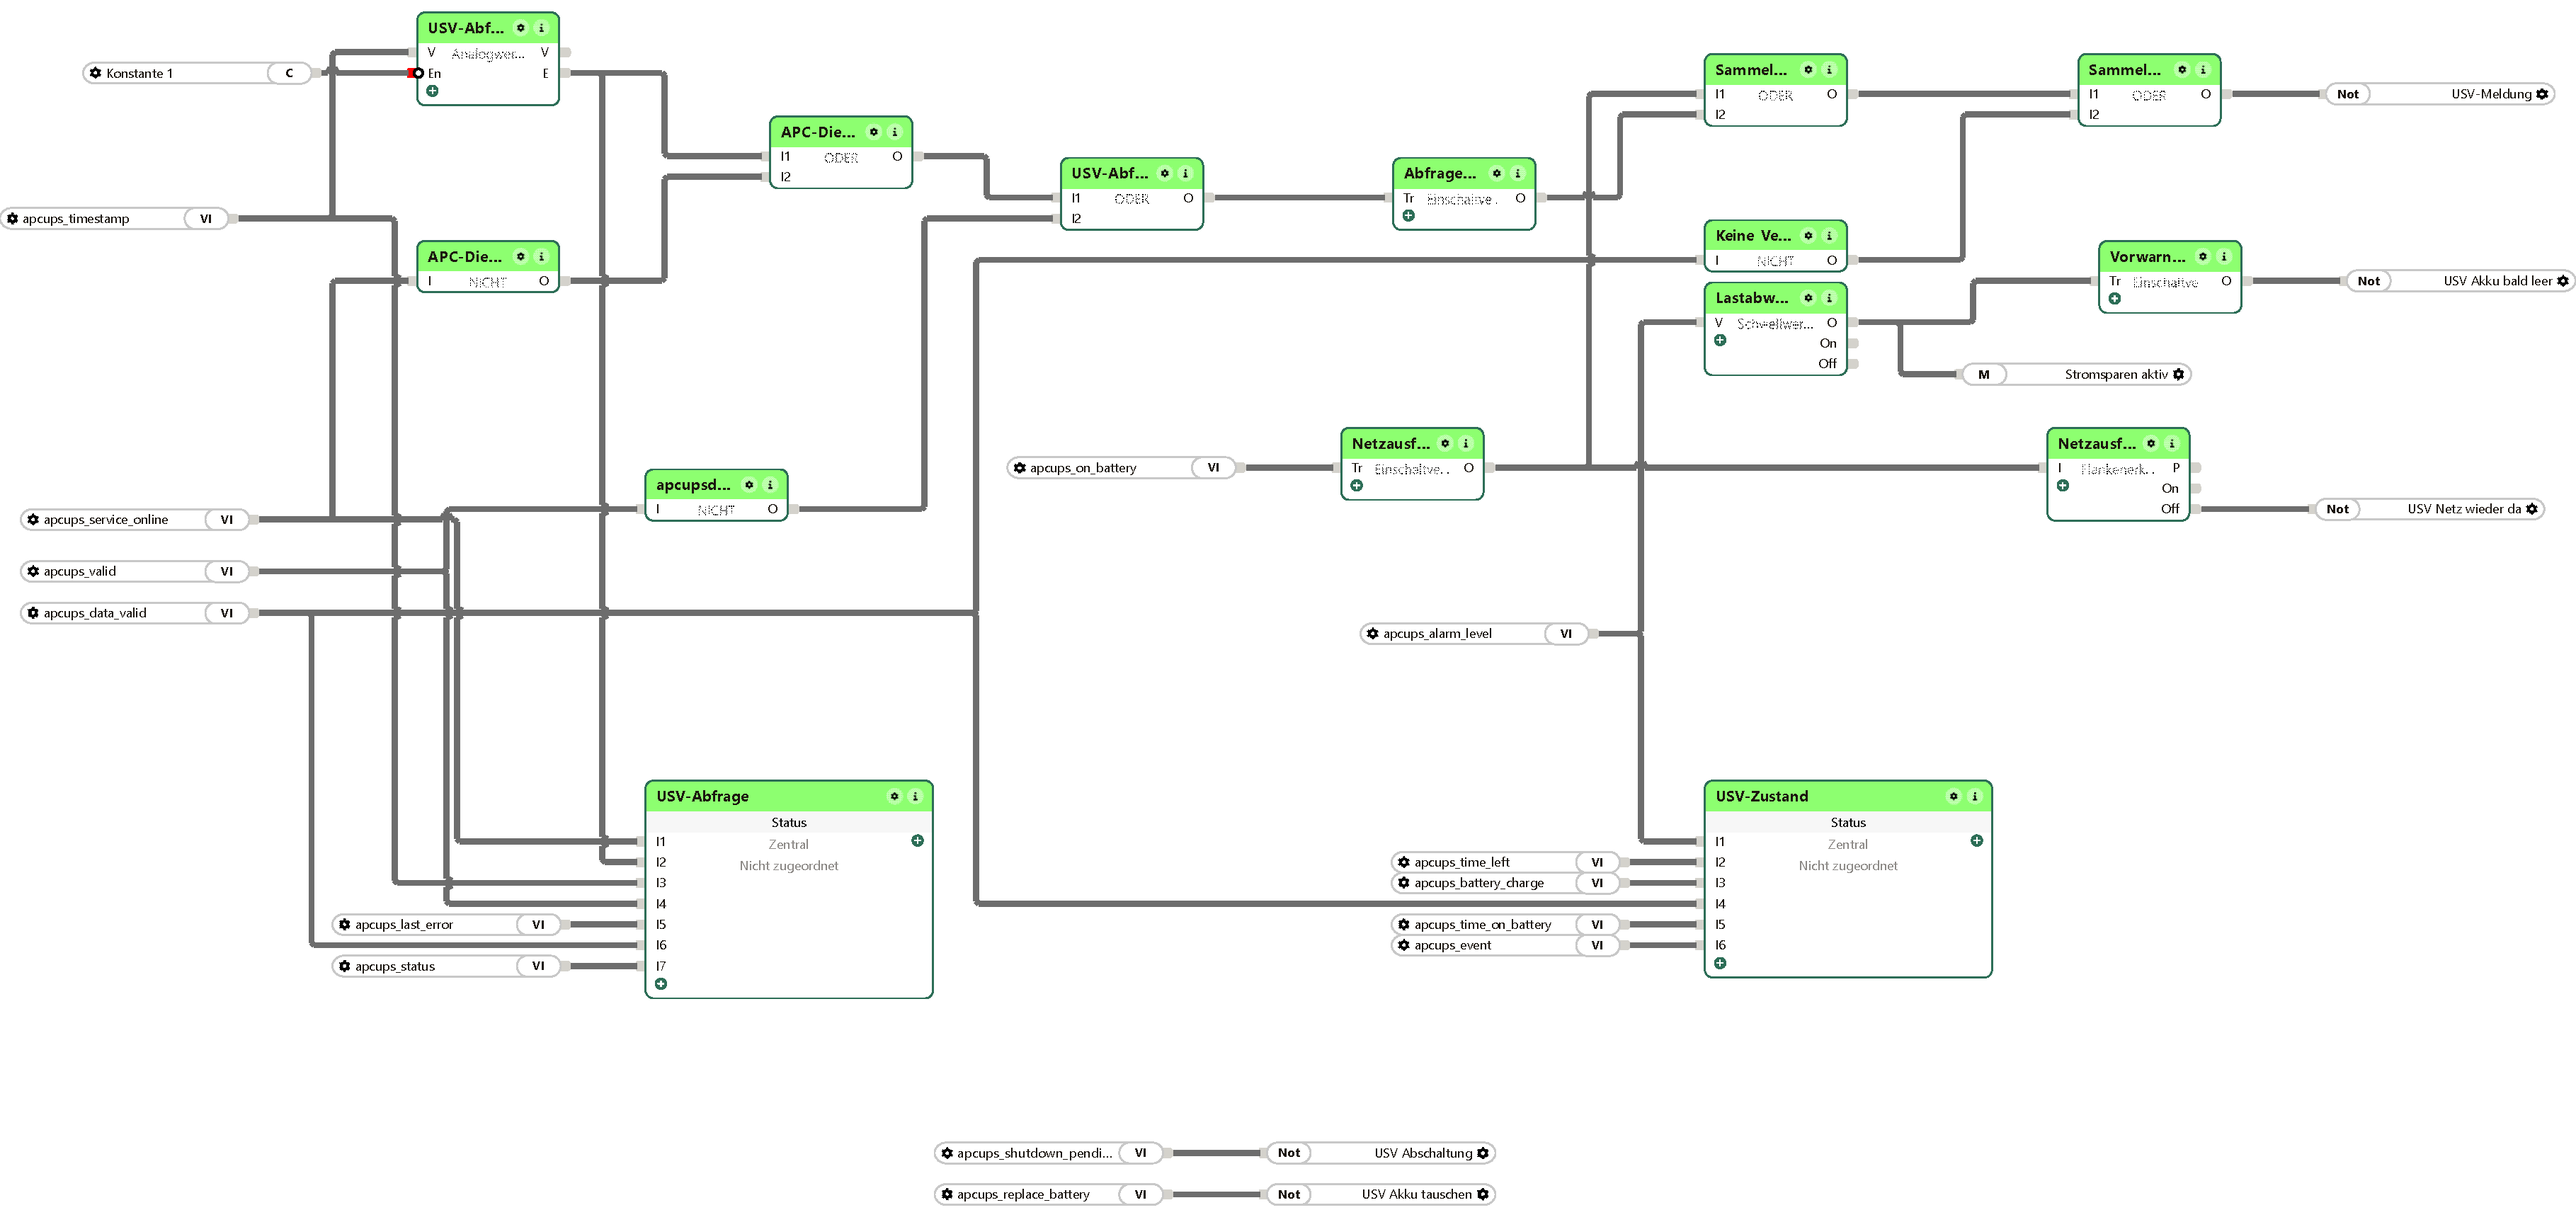
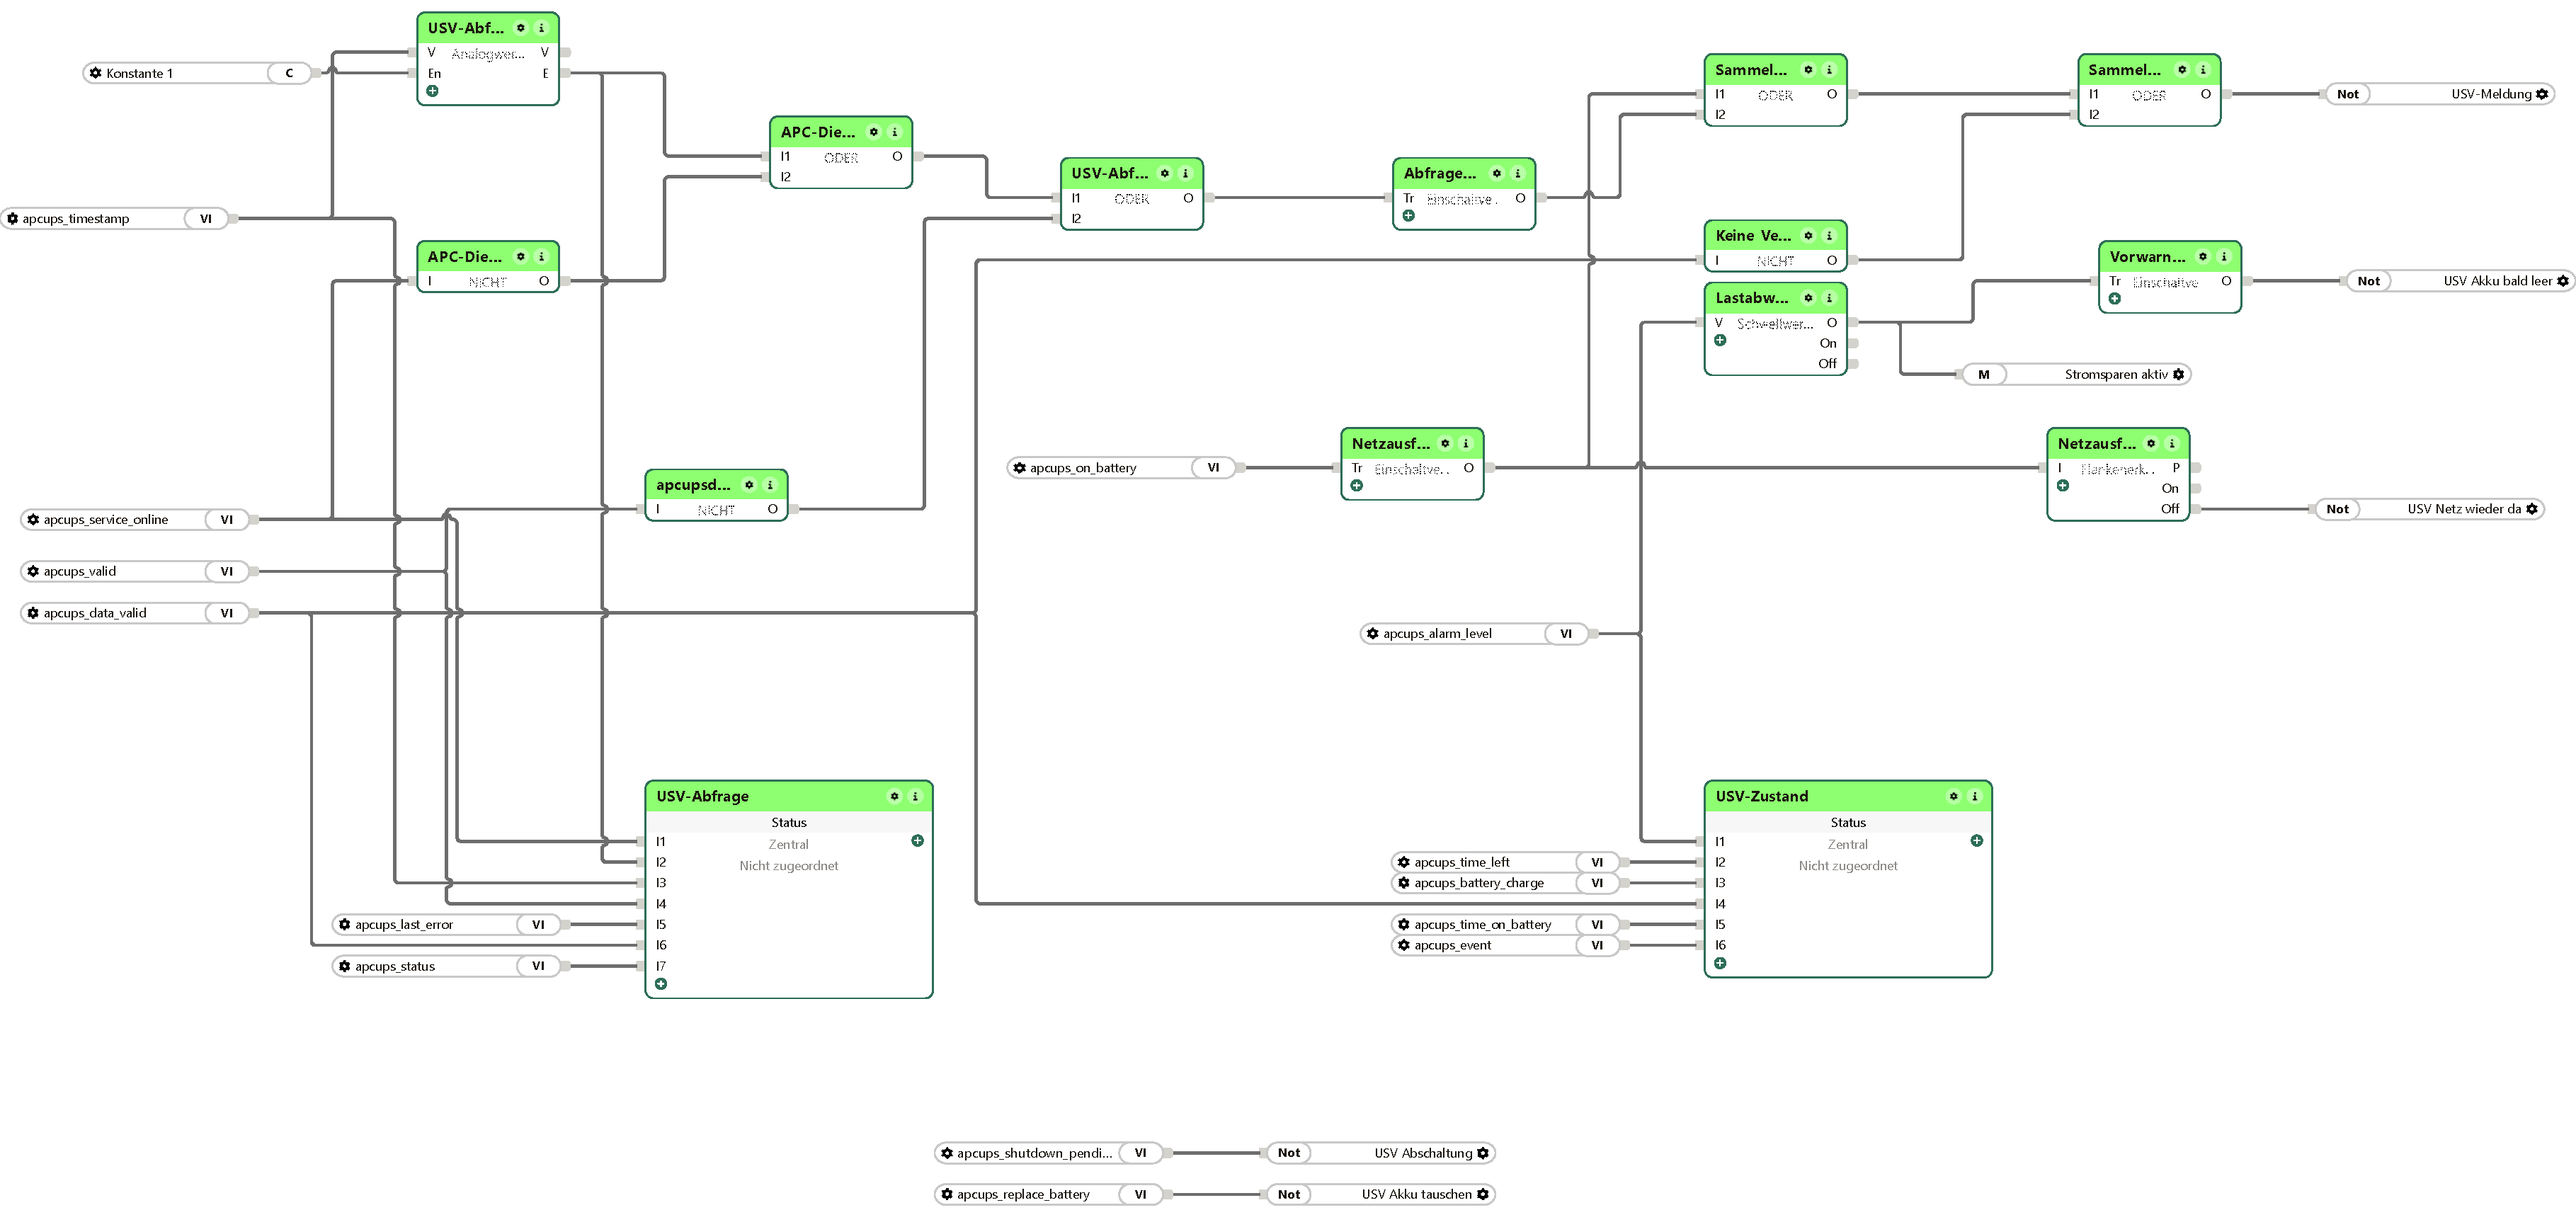
APC-UPS 1.2.22: Einbindung: Eingang En der Analogwertvalidierung nicht negieren (Hinweis, Bild)
* **Einbindung in Loxone: Eingang En der Analogwertvalidierung nicht negieren (Hinweis und Bild);** ohne diese Korrektur löste die Ausfallmeldung nie aus. Config legt den Eingang En negiert an – die Konstante 1 kam dann als 0 an, und die Validierung #19 der Seite „APC-UPS NG“ prüfte die Zeit Tmc nicht. Wer die Seite schon gebaut hat: Haken bei ‚En‘ entfernen (Eigenschaftsfenster, Parameter). Das Bild zeigt den Eingang jetzt ohne Negation. Plugin-Verhalten unverändert.

diff --git a/webfrontend/htmlauth/index.php b/webfrontend/htmlauth/index.php
@@ -1081,6 +1081,7 @@ $ap_bs_seiten = array(
             array('S1_H2', array()),
             array('S1_H3', array()),
             array('S1_H4', array(ap_t('EINST.INTERVALL'))),
+            array('S1_H9', array()),
             array('S1_H5', array()),
             array('S1_H6', array(ap_t('LOXONE.SP_NAME'))),
             array('S1_H7', array()),

diff --git a/README.md b/README.md
@@ -4,6 +4,10 @@
 Restlaufzeit und Last per MQTT an den Loxone Miniserver. Bei Stromausfall und
 Netzrückkehr gibt es zusätzlich eine Benachrichtigung.
 
+## Neu in 1.2.22
+
+* **Einbindung in Loxone: Eingang En der Analogwertvalidierung nicht negieren (Hinweis und Bild);** ohne diese Korrektur löste die Ausfallmeldung nie aus. Config legt den Eingang En negiert an – die Konstante 1 kam dann als 0 an, und die Validierung #19 der Seite „APC-UPS NG“ prüfte die Zeit Tmc nicht. Wer die Seite schon gebaut hat: Haken bei ‚En‘ entfernen (Eigenschaftsfenster, Parameter). Das Bild zeigt den Eingang jetzt ohne Negation. Plugin-Verhalten unverändert.
+
 ## Neu in 1.2.21
 
 * **Themenpräfix mit Schrägstrich:** Bei einem Präfix mit Ebenen wie `haus/apcups` hießen die Eingänge der
